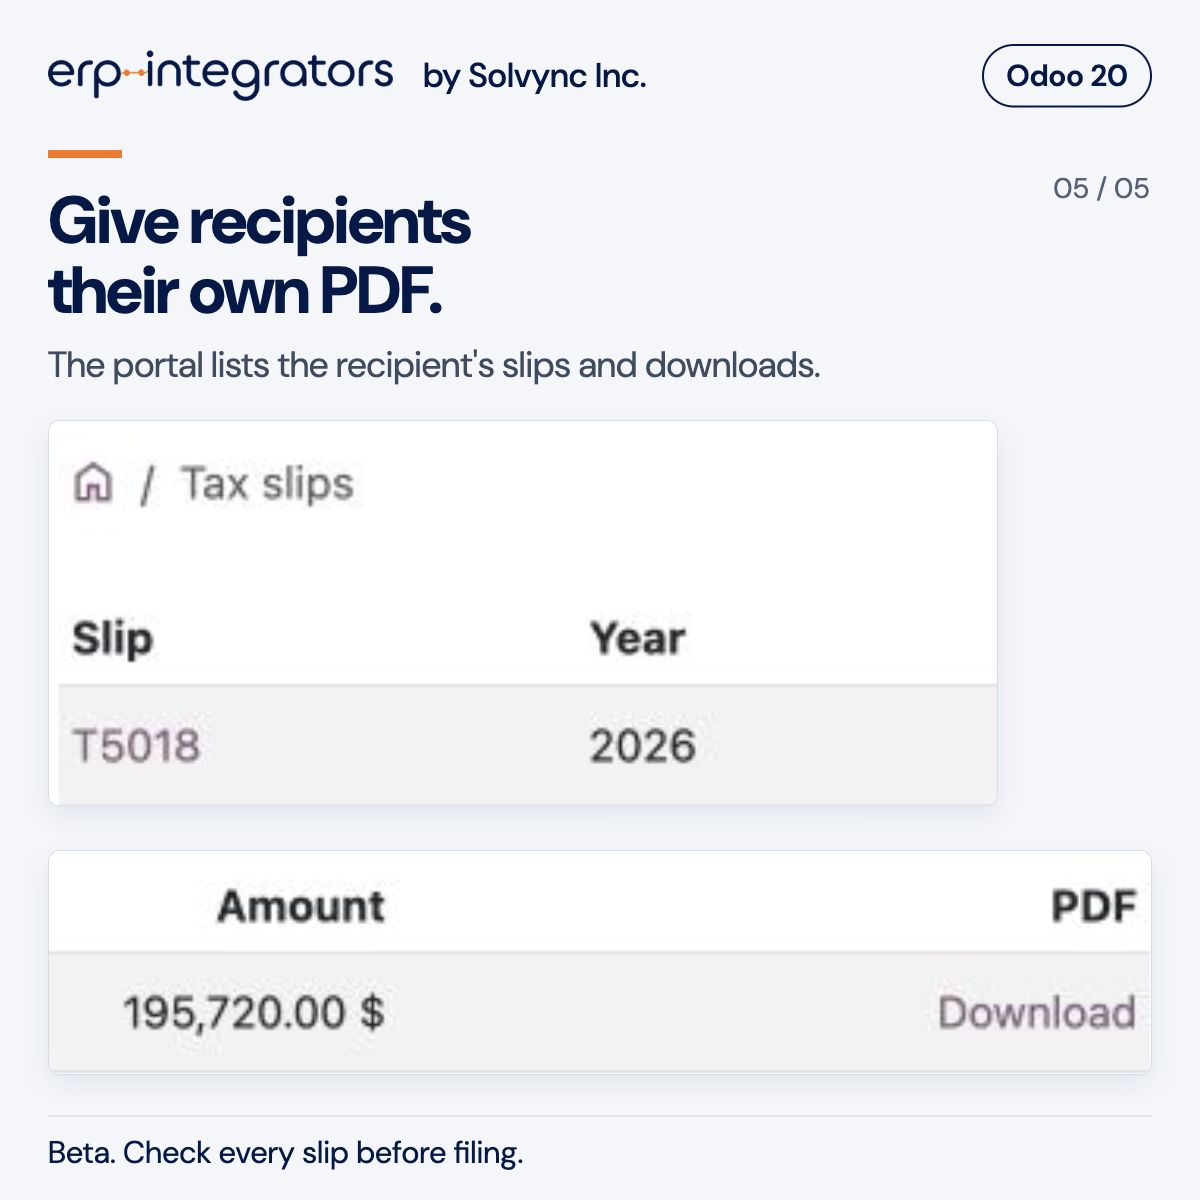
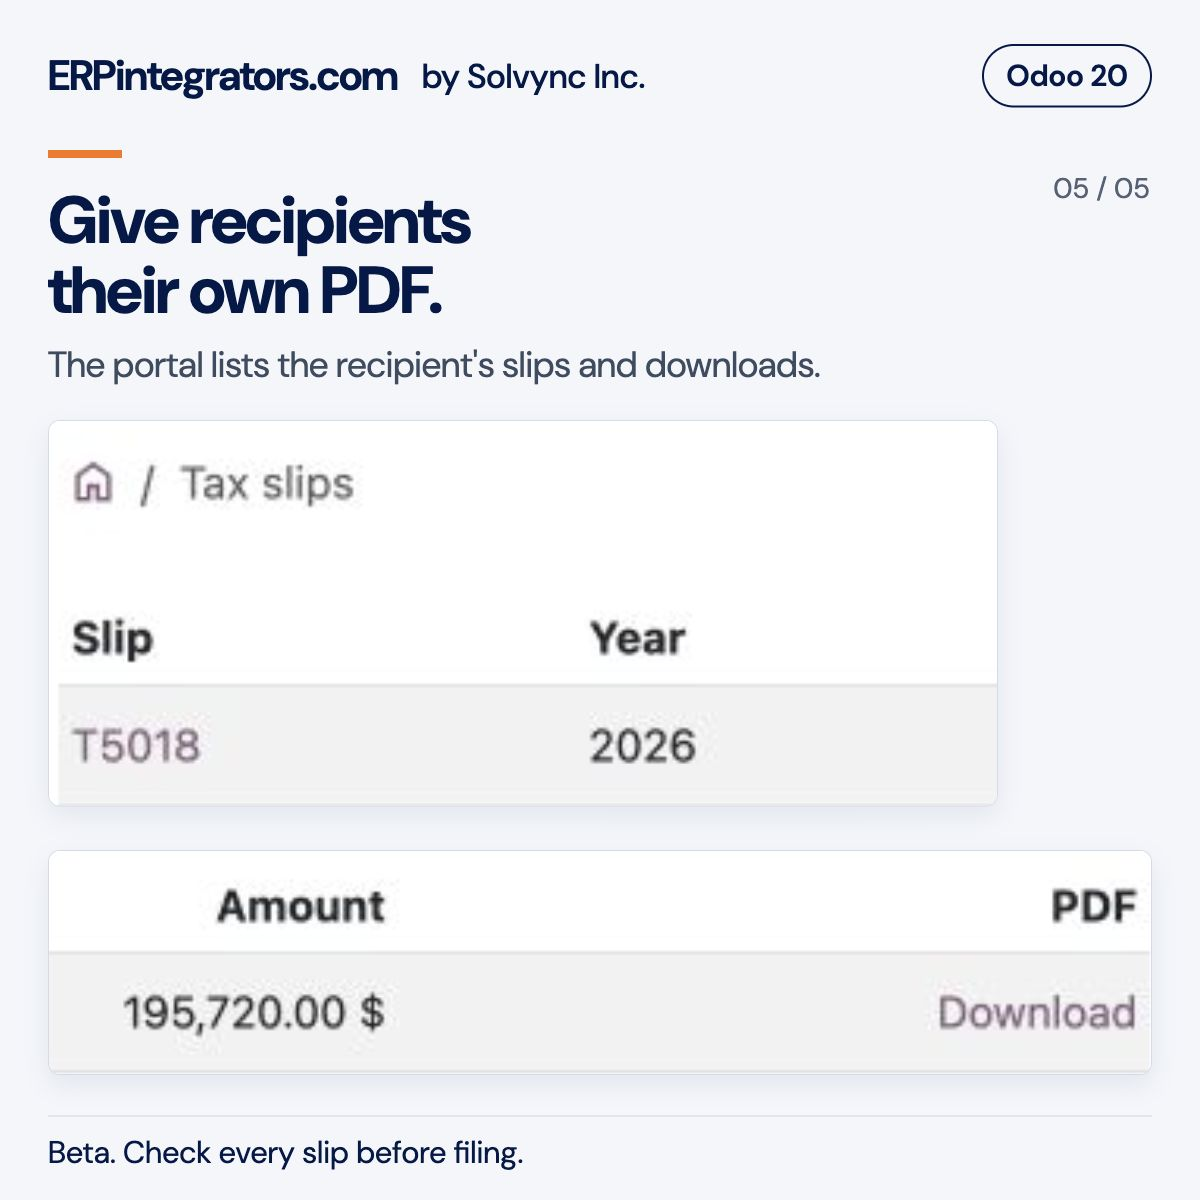
Use ERPintegrators.com publisher name

Changed region(s): [[0.0308, 0.0308, 0.5242, 0.0925]]

diff --git a/l10n_ca_contractor_slips/static/description/index.html b/l10n_ca_contractor_slips/static/description/index.html
@@ -1,6 +1,6 @@
 <h1 id="t4a-and-t5018-slips">T4A and T5018 Slips</h1>
 <p>License: LGPL-3</p>
-<p><strong>ERP Integrators</strong> | by <strong>Solvync
+<p><strong>ERPintegrators.com</strong> | by <strong>Solvync
 Inc.</strong></p>
 <p>Prepare T4A box 048 and T5018 contractor tax slips in Odoo 20, using
 the vendor payments recorded in your accounting. Review each

diff --git a/l10n_ca_contractor_slips/__manifest__.py b/l10n_ca_contractor_slips/__manifest__.py
@@ -5,7 +5,7 @@
     "summary": "T4A box 048 and T5018 contractor tax slips for Odoo, with payment traces, CRA XML and recipient PDFs",
     "version": "20.0.1",
     "category": "Accounting/Localizations/Reporting",
-    "author": "ERP Integrators (Solvync Inc.)",
+    "author": "ERPintegrators.com (Solvync Inc.)",
     "website": "https://erpintegrators.com",
     "support": "info@erpintegrators.com",
     "license": "LGPL-3",

diff --git a/README.md b/README.md
@@ -1,6 +1,6 @@
 # T4A and T5018 Slips
 
-**ERP Integrators** | by **Solvync Inc.**
+**ERPintegrators.com** | by **Solvync Inc.**
 
 T4A box 048 and T5018 slips for Odoo 20 Community and Enterprise, calculated from the vendor
 payments you actually made, with the CRA XML file validated against CRA's published schemas,
@@ -57,7 +57,7 @@ text only, and their presence on a slip says nothing about CRA approval of this 
 
 ## Publisher and project links
 
-Published through [ERP Integrators](https://erpintegrators.com), a Solvync Inc. brand.
+Published through [ERPintegrators.com](https://erpintegrators.com), a Solvync Inc. brand.
 The module is developed and maintained by [Solvync](https://solvync.com).
 For setup questions or a defect report, email [info@erpintegrators.com](mailto:info@erpintegrators.com).
 Include your Odoo version and the steps to reproduce the issue. Remove SINs and other personal

diff --git a/l10n_ca_contractor_slips/README.rst b/l10n_ca_contractor_slips/README.rst
@@ -4,7 +4,7 @@ T4A and T5018 Slips
 
 License: LGPL-3
 
-**ERP Integrators** \| by **Solvync Inc.**
+**ERPintegrators.com** \| by **Solvync Inc.**
 
 Prepare T4A box 048 and T5018 contractor tax slips in Odoo 20, using the
 vendor payments recorded in your accounting. Review each contractor's

diff --git a/l10n_ca_contractor_slips/readme/DESCRIPTION.md b/l10n_ca_contractor_slips/readme/DESCRIPTION.md
@@ -1,4 +1,4 @@
-**ERP Integrators** | by **Solvync Inc.**
+**ERPintegrators.com** | by **Solvync Inc.**
 
 Prepare T4A box 048 and T5018 contractor tax slips in Odoo 20, using the vendor payments
 recorded in your accounting. Review each contractor's total, trace the bills and payments behind
